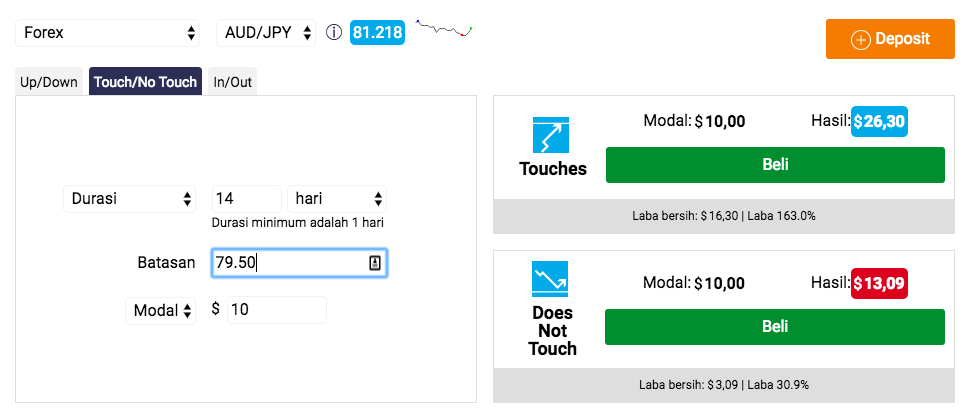
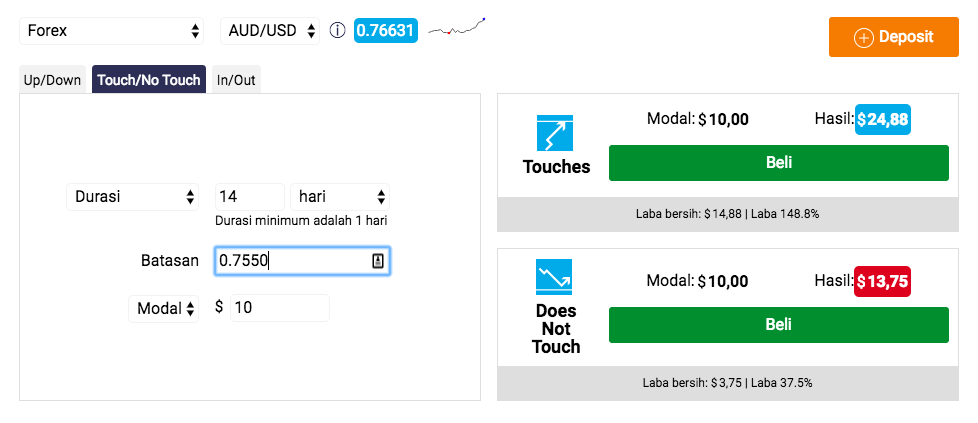
update id report

diff --git a/_posts/id/2018-03-28-report-id.md b/_posts/id/2018-03-28-report-id.md
@@ -32,4 +32,4 @@ Walaupun pemain permainan kriket Australia sedang mengalami banyak tekanan dari 
 
 <img src="{{ site.url }}/images/mar-18/id-28-mar-18.png" alt="{{ page.title }}" title="{{ page.title }}">
 
-<a href="%LINK%%?currency=USD&market=forex&underlying=frxAUDJPY&formname=touchnotouch&duration_amount=14&duration_units=d&amount=10&amount_type=stake&expiry_type=duration&barrier=79.5" target="_blank">Cara terbaik untuk memanfaatkan situasi ini adalah dengan bertrading TOUCH yang diperkirakan AUD/JPY akan menyentuh level 79.50 untuk 14 hari kedepan dengan potensi laba bersih sekitar 140% jika analisa tepat.</a>
+<a href="%LINK%%?currency=USD&market=forex&underlying=frxAUDUSD&formname=touchnotouch&duration_amount=14&duration_units=d&amount=10&amount_type=stake&expiry_type=duration&barrier=0.7550" target="_blank">Cara terbaik untuk memanfaatkan situasi ini adalah dengan bertrading TOUCH yang diperkirakan AUD/USD akan menyentuh level 0.7550 untuk 14 hari kedepan dengan potensi laba bersih sekitar 189% jika analisa tepat.</a>
